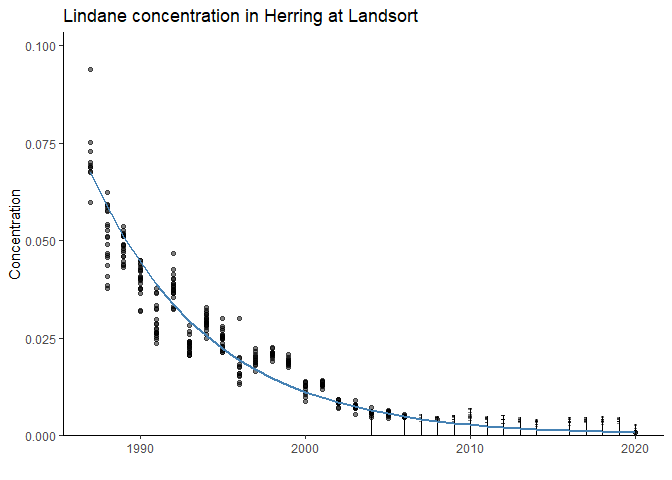
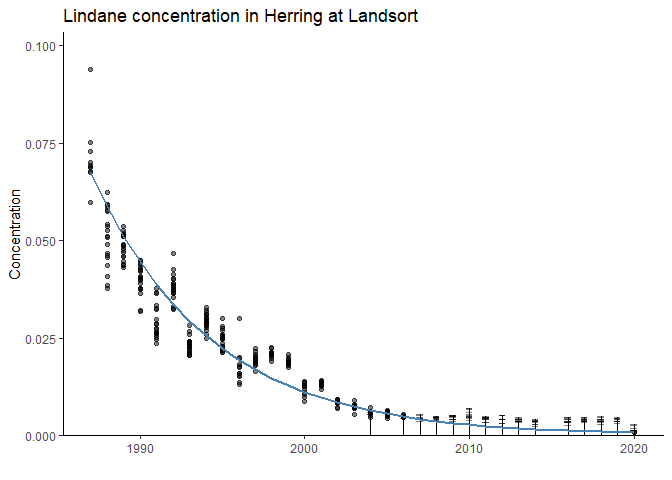
Readme fixes

diff --git a/readme.md b/readme.md
@@ -9,13 +9,12 @@ This R package was constructed as a faster alternative to (now retired)
 [`lmec`](https://github.com/cran/lmec) for fitting linear mixed models
 for left-censored data, to be used for trend detection within the
 Swedish national monitoring programme for contaminants in biota. It fits
-a left-censored version of the linear mixed model $$
-y_{ij} = \alpha + \beta t_j+ b_j + \epsilon_{ij}
-$$ for replicate measurements $y_{1j}, \ldots, y_{n_jj}$ within a
-“monitoring year” $t_j$ sharing a common random effect
-$b_j\sim N(0, s^2)$ and individual effects
-$\epsilon_{ij} \sim N(0, \sigma^2)$. The fit is based on numerical
-maximization of the corresponding likelihood approximated by
+a left-censored version of the linear mixed model
+$y_{ij} = \alpha + \beta t_j+ b_j + \epsilon_{ij}$ for replicate
+measurements $y_{1j}, \ldots, y_{n_jj}$ within a “monitoring year” $t_j$
+sharing a common random effect $b_j\sim N(0, s^2)$ and individual
+effects $\epsilon_{ij} \sim N(0, \sigma^2)$. The fit is based on
+numerical maximization of the corresponding likelihood approximated by
 Gauss-Hermite quadrature.
 
 # Sample usage
@@ -94,3 +93,5 @@ plot(fit) + ggplot2::labs(y = "Concentration", title = "Lindane concentration in
 ```
 
 ![](readme_files/figure-gfm/unnamed-chunk-6-1.png)<!-- -->
+
+where censored observations are represented by vertical bars.
